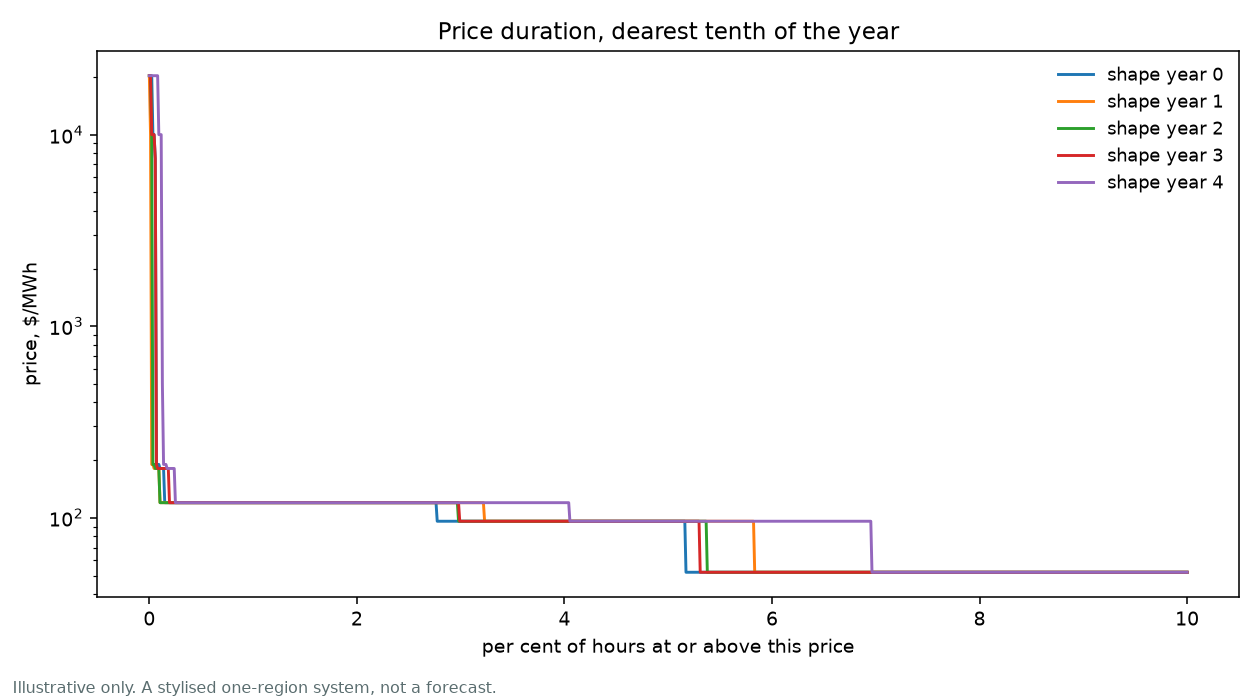
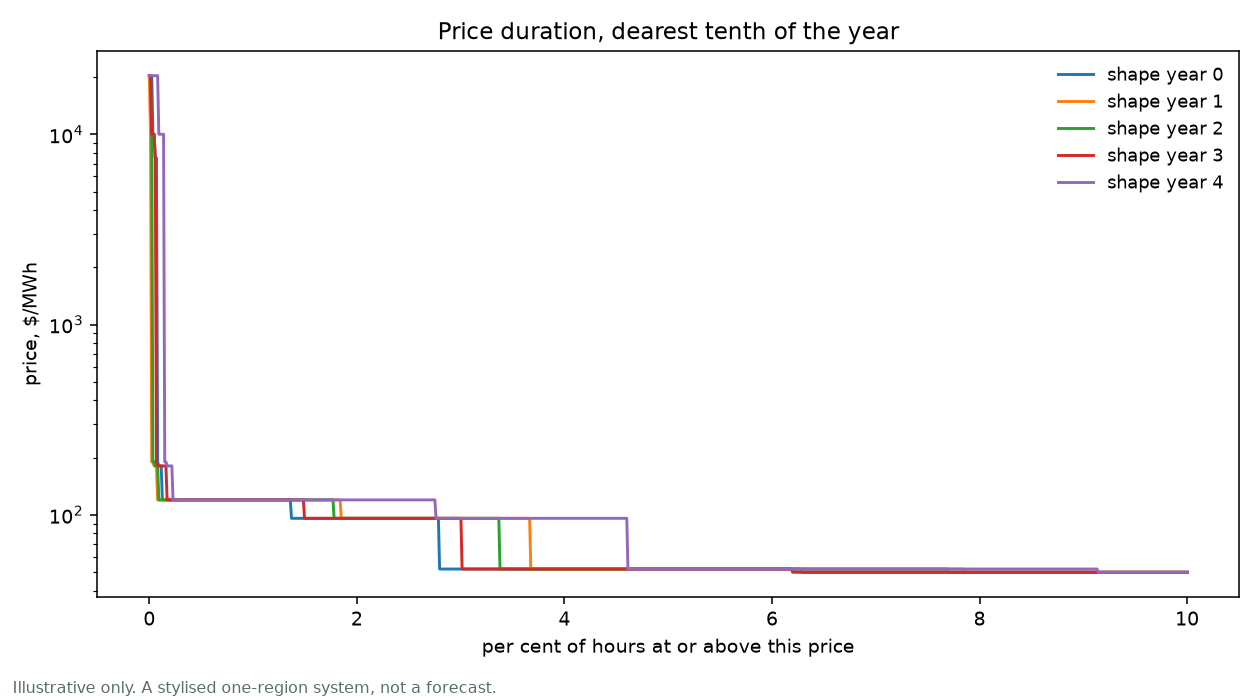
Storage scheduling, convergence, and the unserved-energy denominator
Three defects found by an adversarial audit of this repository and reproduced
before fixing. Several independent reviewers converged on the first two.

A store charged and discharged in the same hour. The daily schedule took the top
k hours from one sort and the bottom k from a second, independent sort. Those
partition a day only when prices are distinct, and the curtailment merit order
that landed earlier today makes ties the normal case: a typical day now holds six
distinct prices across twenty-four hours. The twelve-hour store was scheduled to
charge and discharge in the same hour on 308 days of 365, 733 hour-slots a year.
Both ends now come from one ordering, which partitions by construction, and the
half-day cap on slots is asserted rather than assumed.

The re-stack loop never converged and never said so. It compared the annual mean
price, not the peak-block price its tolerance is named for, and because the
comparison needs a previous pass it could only fire on the final iteration, so the
tolerance changed nothing at any value. Underneath that, the iteration is a cobweb
- storage schedules against a price and its schedule moves that price - and
undamped it oscillated in a two-cycle between about $97 and $110 on the peak block
at every ceiling tried, up to eight passes. Successive iterates are now averaged,
the tolerance is tested on the peak block, convergence is reported on the result,
and the ceiling rises from two to six. It converges in four passes to $99.32 and
[…]

Changed region(s): [[0.1238, 0.18, 0.8667, 0.84], [0.031, 0.72, 0.0619, 0.75], [0.031, 0.45, 0.0619, 0.48]]

diff --git a/src/esem_sandbox/core/dispatch.py b/src/esem_sandbox/core/dispatch.py
@@ -33,12 +33,15 @@ class DispatchResult:
     price: np.ndarray                      # $/MWh, 8760
     residual_mw: np.ndarray                # after VRE and storage, 8760
     demand_mw: np.ndarray                  # native demand before rooftop, 8760
+    operational_demand_mw: np.ndarray = field(  # net of rooftop: what the grid serves
+        default_factory=lambda: np.zeros(0))
     generation_mwh: dict[str, np.ndarray] = field(default_factory=dict)
     unserved_mwh: np.ndarray = field(default_factory=lambda: np.zeros(0))
     ladder_mw: np.ndarray = field(default_factory=lambda: np.zeros(0))
     administered_hours: np.ndarray = field(default_factory=lambda: np.zeros(0, bool))
     water_value_per_mwh: float = 0.0
     storage_passes: int = 0
+    storage_converged: bool = False
 
     @property
     def total_unserved_gwh(self) -> float:
@@ -50,7 +53,14 @@ class DispatchResult:
 
     @property
     def unserved_fraction(self) -> float:
-        total = self.demand_mw.sum()
+        """Unserved energy over OPERATIONAL demand, not native demand.
+
+        Unserved energy is a shortfall in what the grid was asked to serve. Rooftop
+        output never reaches the grid, so including the load it meets behind the
+        meter puts numerator and denominator on different bases and flatters the
+        ratio. Here that understated every reliability figure by about a quarter.
+        """
+        total = self.operational_demand_mw.sum()
         return float(self.unserved_mwh.sum() / total) if total else 0.0
 
 
@@ -187,11 +197,18 @@ def _run_storage(units: list[Unit], provisional_price: np.ndarray,
         power = u.available_mw
         energy_cap = power * float(u.duration_h)
         rte = float(u.round_trip_efficiency or 0.85)
+        # Capped at half a day so charge and discharge windows cannot overlap.
         slots = max(1, min(HOURS_PER_DAY // 2, int(round(float(u.duration_h)))))
+        assert 2 * slots <= HOURS_PER_DAY
 
-        # Rank every day at once.
-        desc = np.argsort(-by_day, axis=1, kind="stable")[:, :slots]
-        asc = np.argsort(by_day, axis=1, kind="stable")[:, :slots]
+        # Rank every day once and take from both ends of the SAME ordering. Two
+        # independent sorts, one of price and one of minus price, do not partition a
+        # day when prices tie, and a curtailment merit order makes ties common: a
+        # day can hold only a handful of distinct prices. The store was then
+        # scheduled to charge and discharge in the same hour on most days.
+        order = np.argsort(by_day, axis=1, kind="stable")
+        asc = order[:, :slots]
+        desc = order[:, -slots:]
         rows = np.arange(n_days)[:, None]
         disch_mean = by_day[rows, desc].mean(axis=1)
         chg_mean = by_day[rows, asc].mean(axis=1)
@@ -330,7 +347,20 @@ def dispatch_year(settings: Settings, year: int, demand_mw: np.ndarray,
     storage_net = np.zeros_like(residual)
     storage_gen: dict[str, np.ndarray] = {}
     passes = 0
+    converged = False
+
+    # Convergence is tested on the peak-block price, which is what the tolerance is
+    # named for and what storage is there to move. It previously tested the annual
+    # mean, a different and far less sensitive quantity, and because the comparison
+    # needs a previous pass it could only ever fire on the final iteration, so the
+    # tolerance changed nothing at any value.
+    peak_start, peak_end = settings.blocks()["peak"]
+    hod = np.arange(len(residual)) % HOURS_PER_DAY
+    peak_mask = ((hod >= peak_start) | (hod < peak_end)) if peak_start > peak_end \
+        else ((hod >= peak_start) & (hod < peak_end))
+
     peak_before = None
+    previous = None
     for passes in range(1, int(settings.dispatch["max_storage_passes"]) + 1):
         storage_net, storage_gen = _run_storage(units, provisional, settings)
         net_residual = residual + storage_net
@@ -338,9 +368,18 @@ def dispatch_year(settings: Settings, year: int, demand_mw: np.ndarray,
             net_residual, prices, caps, floor,
             _curtailment_price(np.clip(-net_residual, 0.0, None),
                                curtail_tiers, market_floor))
-        peak = float(provisional.mean())
+        # Damping. Storage schedules against a price and its schedule then moves
+        # that price, which is a cobweb: undamped it oscillates in a two-cycle
+        # between roughly $97 and $110 on the peak block and never settles, whatever
+        # ceiling it is given. Averaging successive iterates is what makes the
+        # tolerance meaningful rather than decorative.
+        if previous is not None:
+            provisional = 0.5 * (provisional + previous)
+        previous = provisional
+        peak = float(provisional[peak_mask].mean())
         if peak_before is not None and abs(peak - peak_before) < settings.dispatch[
                 "storage_price_tolerance"]:
+            converged = True
             break
         peak_before = peak
 
@@ -364,12 +403,14 @@ def dispatch_year(settings: Settings, year: int, demand_mw: np.ndarray,
         price=price,
         residual_mw=net_residual,
         demand_mw=demand_mw,
+        operational_demand_mw=demand_mw - rooftop,
         generation_mwh=generation,
         unserved_mwh=unserved,
         ladder_mw=ladder_mw,
         administered_hours=administered,
         water_value_per_mwh=water,
         storage_passes=passes,
+        storage_converged=converged,
     )
 
 

diff --git a/tests/test_dispatch.py b/tests/test_dispatch.py
@@ -195,3 +195,38 @@ def test_the_drought_year_is_the_one_that_breaches_the_standard(settings, bundle
         "the contrast should be clear, not marginal, so a small data change cannot "
         "quietly invert which year is the short one"
     )
+
+
+def test_the_storage_re_stack_actually_converges(settings, bundle):
+    """Storage schedules against a price and then moves it, which is a cobweb.
+
+    Undamped it oscillated in a two-cycle and never settled at any ceiling, while
+    the loop reported nothing: it simply stopped when it ran out of passes. The
+    tolerance was also compared against the annual mean rather than the peak block
+    it is named for, and could only fire on the final iteration, so it changed
+    nothing at any value.
+    """
+    res = _year(settings, bundle, 0)
+    assert res.storage_converged, (
+        f"did not converge in {res.storage_passes} passes; a silent non-convergence "
+        "is how a wrong answer gets reported as a right one"
+    )
+    assert res.storage_passes < settings.dispatch["max_storage_passes"], (
+        "converging only on the last allowed pass means the ceiling is binding"
+    )
+
+
+def test_a_store_never_charges_and_discharges_in_the_same_hour(settings, bundle):
+    """Two independent sorts do not partition a day when prices tie, and a
+    curtailment merit order makes ties common. A twelve-hour store was scheduled to
+    do both in the same hour on 308 days of 365."""
+    res = _year(settings, bundle, 0)
+    day_price = res.price[:365 * 24].reshape(365, 24)
+    for unit in (u for u in settings.fleet if u.technology in ("battery", "phes")):
+        slots = max(1, min(12, int(round(float(unit.duration_h)))))
+        for d in range(0, 365, 7):
+            order = np.argsort(day_price[d], kind="stable")
+            charge, discharge = set(order[:slots].tolist()), set(order[-slots:].tolist())
+            assert not (charge & discharge), (
+                f"{unit.unit} charges and discharges in the same hour on day {d}"
+            )

diff --git a/src/esem_sandbox/cli.py b/src/esem_sandbox/cli.py
@@ -44,7 +44,7 @@ def run(args: argparse.Namespace) -> int:
                             bundle["wind_cf"][y], bundle["solar_cf"][y])
         results[f"shape year {y}"] = res
         cal = calibration(res.price, res.unserved_mwh, res.administered_hours,
-                          res.demand_mw, settings)
+                          res.operational_demand_mw, settings)
         blocks = block_prices(settings, res.price)
         rows.append({
             "shape_year": y,
@@ -78,7 +78,7 @@ def run(args: argparse.Namespace) -> int:
     print(f"firm dispatchable capacity {firm:,.0f} MW")
     for label, res in results.items():
         cal = calibration(res.price, res.unserved_mwh, res.administered_hours,
-                          res.demand_mw, settings)
+                          res.operational_demand_mw, settings)
         flag = "over the standard" if cal.unserved_fraction > standard else "within"
         print(f"  {label}: mean ${cal.mean_price:7.2f}/MWh   "
               f"unserved {cal.unserved_gwh:6.3f} GWh   {flag}")

diff --git a/src/esem_sandbox/core/report.py b/src/esem_sandbox/core/report.py
@@ -93,7 +93,7 @@ class Calibration:
 
 
 def calibration(price: np.ndarray, unserved_mwh: np.ndarray,
-                administered: np.ndarray, demand_mw: np.ndarray,
+                administered: np.ndarray, operational_demand_mw: np.ndarray,
                 settings: Settings) -> Calibration:
     """The calibration statistics, in days rather than hours where it matters.
 
@@ -104,7 +104,7 @@ def calibration(price: np.ndarray, unserved_mwh: np.ndarray,
     n_days = len(price) // HOURS_PER_DAY
     by_day = price[:n_days * HOURS_PER_DAY].reshape(n_days, HOURS_PER_DAY)
     excess = np.clip(price - 300.0, 0.0, None)
-    demand_total = float(demand_mw.sum())
+    demand_total = float(operational_demand_mw.sum())
     return Calibration(
         days_with_300_hour=float((by_day.max(axis=1) >= 300.0).mean()),
         hours_at_or_above_300=int((price >= 300.0).sum()),
